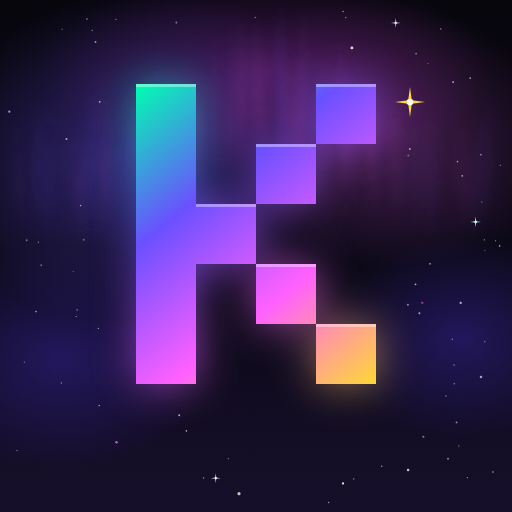
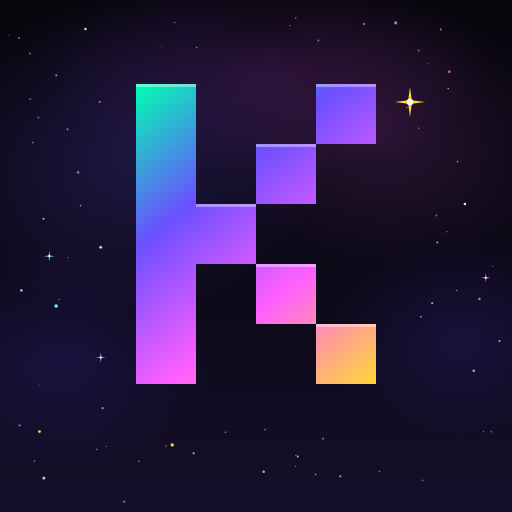
docs: the brand art is crisp: no glow round KLASH, no blurred streaks
Jae: "i don't like the blur effect on the banner. make it more neat."
The blurred copy of the word that made a halo round its letters is
gone, and so are the nebula's filaments, streaks blurred sideways
above the word. The nebula's clouds are at half their strength, so
the sky stays purple and pink without looking foggy. The letters
keep their fade and lit top edges, the ╱ fields and stars are as
they were, in the banner, social card, sign-off and avatar.

Changed region(s): [[0.0, 0.0312, 0.875, 0.8125], [0.8438, 0.5938, 0.9688, 0.7188], [0.9062, 0.3125, 0.9688, 0.375]]

diff --git a/docs/brand/og.html b/docs/brand/og.html
@@ -18,22 +18,19 @@ html,body{width:1280px;height:640px;overflow:hidden;background:#07060D}
 <defs>
 
 <linearGradient id="sky" x1="0" y1="0" x2="0" y2="1"><stop offset="0" stop-color="#07060D"/><stop offset=".62" stop-color="#0D0A1A"/><stop offset="1" stop-color="#160F2B"/></linearGradient>
-<radialGradient id="neb1"><stop offset="0" stop-color="#6B50FF" stop-opacity=".40"/><stop offset="1" stop-color="#6B50FF" stop-opacity="0"/></radialGradient>
-<radialGradient id="neb2"><stop offset="0" stop-color="#FF60FF" stop-opacity=".26"/><stop offset="1" stop-color="#FF60FF" stop-opacity="0"/></radialGradient>
-<radialGradient id="neb3"><stop offset="0" stop-color="#C337E0" stop-opacity=".26"/><stop offset="1" stop-color="#C337E0" stop-opacity="0"/></radialGradient>
-<radialGradient id="neb4"><stop offset="0" stop-color="#4A30D9" stop-opacity=".34"/><stop offset="1" stop-color="#4A30D9" stop-opacity="0"/></radialGradient>
-<linearGradient id="ray1" x1="0" y1="0" x2="0" y2="1"><stop offset="0" stop-color="#6B50FF" stop-opacity="0"/><stop offset=".55" stop-color="#6B50FF" stop-opacity=".9"/><stop offset="1" stop-color="#6B50FF" stop-opacity="0"/></linearGradient>
-<linearGradient id="ray2" x1="0" y1="0" x2="0" y2="1"><stop offset="0" stop-color="#FF60FF" stop-opacity="0"/><stop offset=".55" stop-color="#FF60FF" stop-opacity=".9"/><stop offset="1" stop-color="#FF60FF" stop-opacity="0"/></linearGradient>
-<filter id="hblur" x="-20%" y="-5%" width="140%" height="110%"><feGaussianBlur stdDeviation="5 0"/></filter>
+<radialGradient id="neb1"><stop offset="0" stop-color="#6B50FF" stop-opacity=".20"/><stop offset="1" stop-color="#6B50FF" stop-opacity="0"/></radialGradient>
+<radialGradient id="neb2"><stop offset="0" stop-color="#FF60FF" stop-opacity=".13"/><stop offset="1" stop-color="#FF60FF" stop-opacity="0"/></radialGradient>
+<radialGradient id="neb3"><stop offset="0" stop-color="#C337E0" stop-opacity=".13"/><stop offset="1" stop-color="#C337E0" stop-opacity="0"/></radialGradient>
+<radialGradient id="neb4"><stop offset="0" stop-color="#4A30D9" stop-opacity=".17"/><stop offset="1" stop-color="#4A30D9" stop-opacity="0"/></radialGradient>
+
 <linearGradient id="word" gradientUnits="userSpaceOnUse" x1="248" y1="92" x2="1032" y2="232"><stop offset="0" stop-color="#00FFB2"/><stop offset="0.333" stop-color="#6B50FF"/><stop offset="0.667" stop-color="#FF60FF"/><stop offset="1" stop-color="#FED835"/></linearGradient>
 <linearGradient id="field" gradientUnits="userSpaceOnUse" x1="0" y1="0" x2="1280" y2="0"><stop offset="0" stop-color="#6B50FF" stop-opacity="0"/><stop offset=".2" stop-color="#6B50FF" stop-opacity=".55"/><stop offset=".8" stop-color="#FF60FF" stop-opacity=".55"/><stop offset="1" stop-color="#FF60FF" stop-opacity="0"/></linearGradient>
-<filter id="glow" x="-20%" y="-60%" width="140%" height="220%"><feGaussianBlur stdDeviation="16"/></filter>
 </defs>
-<rect width="1280" height="640" fill="url(#sky)"/><g class="aur"><ellipse cx="333" cy="192" rx="512" ry="205" fill="url(#neb1)" transform="rotate(-12 333 192)"/><ellipse cx="947" cy="166" rx="461" ry="166" fill="url(#neb2)" transform="rotate(9 947 166)"/><ellipse cx="666" cy="90" rx="563" ry="128" fill="url(#neb3)"/><ellipse cx="154" cy="448" rx="384" ry="141" fill="url(#neb4)"/><ellipse cx="1152" cy="422" rx="333" ry="128" fill="url(#neb4)"/></g><g filter="url(#hblur)"><rect x="39.9" y="84.1" width="9.2" height="199.0" fill="url(#ray1)" opacity="0.054"/><rect x="60.7" y="175.2" width="8.5" height="112.3" fill="url(#ray1)" opacity="0.042"/><rect x="77.6" y="169.0" width="7.8" height="122.6" fill="url(#ray2)" opacity="0.044"/><rect x="90.9" y="184.7" width="10.4" height="110.4" fill="url(#ray2)" opacity="0.034"/><rect x="110.3" y="169.8" width="8.3" height="128.2" fill="url(#ray2)" opacity="0.063"/><rect x="119.9" y="191.4" width="5.5" height="109.0" fill="url(#ray2)" opacity="0.069"/><rect x="147.3" y="87.4" width="7.8" height="214.9" fill="url(#ray1)" opacity="0.041"/><rect x="160.9" y="169.7" width="10.8" height="133.7" fill="url(#ray1)" opacity="0.077"/><rect x="180.6" y="158.8" width="5.0" height="145.1" fill="url(#ray2)" opacity="0.047"/><rect x="187.9" y="158.4" width="8.7" height="145.4" fill="url(#ray2)" opacity="0.063"/><rect x="208.3" y="156.6" width="6.2" height="146.5" fill="url(#ray1)" opacity="0.077"/><rect x="227.2" y="107.2" width="4.2" height="194.5" fill="url(#ray1)" opacity="0.033"/><rect x="247.7" y="88.1" width="6.6" height="211.5" fill="url(#ray1)" opacity="0.032"/><rect x="262.8" y="187.1" width="10.7" height="109.9" fill="url(#ray2)" opacity="0.035"/><rect x="275.4" y="93.1" width="6.4" height="200.7" fill="url(#ray1)" opacity="0.093"/><rect x="294.5" y="117.5" width="9.2" height="172.6" fill="url(#ray2)" opacity="0.085"/><rect x="317.0" y="72.6" width="4.6" height="213.3" fill="url(#ray1)" opacity="0.037"/><rect x="328.7" y="98.3" width="10.5" height="183.1" fill="url(#ray2)" opacity="0.099"/><rect x="348.3" y="129.7" width="4.5" height="146.8" fill="url(#ray2)" opacity="0.059"/><rect x="360.8" y="78.7" width="4.3" height="192.6" fill="url(#ray2)" opacity="0.110"/><rect x="388.0" y="92.2" width="8.2" height="173.7" fill="url(#ray2)" opacity="0.068"/><rect x="403.3" y="96.2" width="10.4" height="164.2" fill="url(#ray2)" opacity="0.071"/><rect x="410.9" y="86.0" width="9.1" height="168.8" fill="url(#ray2)" opacity="0.105"/><rect x="439.1" y="63.7" width="7.0" height="185.5" fill="url(#ray2)" opacity="0.103"/><rect x="446.7" y="32.2" width="11.0" height="211.5" fill="url(#ray1)" opacity="0.065"/><rect x="472.3" y="10.9" width="9.1" height="227.5" fill="url(#ray1)" opacity="0.080"/><rect x="485.1" y="89.1" width="6.6" height="144.2" fill="url(#ray2)" opacity="0.077"/><rect x="508.4" y="3.0" width="6.4" height="225.5" fill="url(#ray1)" opacity="0.098"/><rect x="514.7" y="82.2" width="6.5" height="141.9" fill="url(#ray1)" opacity="0.113"/><rect x="540.3" y="17.2" width="9.3" height="203.0" fill="url(#ray1)" opacity="0.108"/><rect x="552.4" y="22.2" width="9.4" height="194.5" fill="url(#ray1)" opacity="0.072"/><rect x="573.5" y="69.2" width="8.1" height="144.5" fill="url(#ray1)" opacity="0.135"/><rect x="582.6" y="36.1" width="7.2" height="175.3" fill="url(#ray1)" opacity="0.071"/><rect x="609.4" y="22.1" width="8.5" height="187.5" fill="url(#ray2)" opacity="0.125"/><rect x="625.7" y="-1.0" width="10.1" height="209.5" fill="url(#ray1)" opacity="0.084"/><rect x="642.3" y="-19.5" width="7.7" height="227.5" fill="url(#ray1)" opacity="0.146"/><rect x="653.2" y="-2.3" width="8.8" height="210.5" fill="url(#ray1)" opacity="0.141"/><rect x="677.0" y="11.4" width="8.1" height="197.6" fill="url(#ray1)" opacity="0.065"/><rect x="693.6" y="50.5" width="8.5" height="160.0" fill="url(#ray1)" opacity="0.107"/><rect x="711.4" y="100.4" width="8.6" height="112.2" fill="url(#ray1)" opacity="0.062"/><rect x="722.6" y="23.0" width="7.3" height="192.2" fill="url(#ray2)" opacity="0.104"/><rect x="739.8" y="103.0" width="5.3" height="115.4" fill="url(#ray2)" opacity="0.057"/><rect x="756.6" y="109.0" width="8.3" height="113.1" fill="url(#ray2)" opacity="0.085"/><rect x="778.6" y="88.6" width="6.8" height="137.7" fill="url(#ray2)" opacity="0.122"/><rect x="792.0" y="72.3" width="6.6" height="158.7" fill="url(#ray1)" opacity="0.052"/><rect x="806.3" y="52.5" width="6.4" height="183.4" fill="url(#ray1)" opacity="0.050"/><rect x="830.0" y="15.8" width="9.7" height="225.3" fill="url(#ray1)" opacity="0.108"/><rect x="848.0" y="92.8" width="7.9" height="153.7" fill="url(#ray1)" opacity="0.051"/><rect x="868.9" y="25.6" width="10.3" height="226.5" fill="url(#ray2)" opacity="0.087"/><rect x="874.7" y="135.7" width="5.0" height="121.9" fill="url(#ray1)" opacity="0.082"/><rect x="899.4" y="46.1" width="5.6" height="217.2" fill="url(#ray1)" opacity="0.066"/><rect x="912.5" y="41.7" width="10.4" height="227.1" fill="url(#ray1)" opacity="0.065"/><rect x="933.4" y="133.6" width="6.9" height="140.4" fill="url(#ray1)" opacity="0.106"/><rect x="947.2" y="50.6" width="7.3" height="228.5" fill="url(#ray2)" opacity="0.070"/><rect x="962.0" y="99.4" width="9.5" height="184.4" fill="url(#ray2)" opacity="0.065"/><rect x="987.7" y="177.8" width="10.5" height="110.4" fill="url(#ray2)" opacity="0.069"/><rect x="1004.3" y="153.4" width="10.9" height="138.7" fill="url(#ray2)" opacity="0.050"/><rect x="1015.7" y="112.8" width="8.2" height="182.7" fill="url(#ray1)" opacity="0.062"/><rect x="1038.3" y="175.3" width="7.7" height="123.2" fill="url(#ray2)" opacity="0.078"/><rect x="1050.6" y="155.9" width="6.5" height="144.9" fill="url(#ray1)" opacity="0.062"/><rect x="1072.7" y="121.8" width="7.2" height="180.6" fill="url(#ray2)" opacity="0.031"/><rect x="1091.9" y="86.8" width="9.4" height="216.8" fill="url(#ray2)" opacity="0.059"/><rect x="1103.2" y="125.2" width="7.4" height="178.8" fill="url(#ray1)" opacity="0.067"/><rect x="1126.2" y="148.1" width="5.4" height="155.7" fill="url(#ray1)" opacity="0.048"/><rect x="1136.0" y="93.2" width="8.9" height="209.7" fill="url(#ray1)" opacity="0.029"/><rect x="1154.9" y="157.8" width="5.0" height="143.6" fill="url(#ray1)" opacity="0.064"/><rect x="1172.6" y="123.7" width="5.1" height="175.6" fill="url(#ray2)" opacity="0.048"/><rect x="1191.1" y="89.0" width="9.7" height="207.5" fill="url(#ray2)" opacity="0.027"/><rect x="1210.7" y="103.8" width="10.9" height="189.5" fill="url(#ray1)" opacity="0.024"/><rect x="1230.4" y="95.5" width="5.5" height="194.1" fill="url(#ray1)" opacity="0.024"/></g><circle cx="824.2" cy="602.2" r="0.62" fill="#FFFAF1" opacity="0.47"/><circle cx="1168.3" cy="101.4" r="0.76" fill="#FFFAF1" opacity="0.41"/><circle cx="794.7" cy="35.2" r="0.74" fill="#FFFAF1" opacity="0.38"/><g transform="translate(80.8 367.0)"><path d="M0 -4.9L0.59 -0.59L4.9 0L0.59 0.59L0 4.9L-0.59 0.59L-4.9 0L-0.59 -0.59z" fill="#FFFAF1"/><circle r="1.08" fill="#FFFAF1"/></g><circle cx="123.6" cy="435.7" r="0.73" fill="#FFFAF1" opacity="0.61"/><circle cx="1164.3" cy="94.3" r="0.83" fill="#FFFAF1" opacity="0.62"/><circle cx="374.9" cy="595.8" r="0.66" fill="#FFFAF1" opacity="0.38"/><circle cx="305.8" cy="527.5" r="1.04" fill="#FFFAF1" opacity="0.67"/><circle cx="1099.5" cy="290.9" r="0.62" fill="#FFFAF1" opacity="0.36"/><circle cx="53.4" cy="546.8" r="0.78" fill="#FFFAF1" opacity="0.51"/><circle cx="592.8" cy="609.1" r="0.82" fill="#FFFAF1" opacity="0.57"/><circle cx="494.2" cy="537.3" r="1.66" fill="#68FFD6" opacity="1.00"/><circle cx="955.5" cy="60.3" r="1.29" fill="#FFFAF1" opacity="0.65"/><circle cx="1084.4" cy="330.9" r="0.84" fill="#FFFAF1" opacity="0.65"/><circle cx="49.9" cy="134.3" r="0.99" fill="#FFFAF1" opacity="0.54"/><circle cx="969.1" cy="8.3" r="0.99" fill="#FFFAF1" opacity="0.60"/><circle cx="134.1" cy="104.5" r="0.74" fill="#FFFAF1" opacity="0.50"/><circle cx="1120.8" cy="102.9" r="0.69" fill="#FFFAF1" opacity="0.41"/><circle cx="617.3" cy="28.0" r="1.22" fill="#FFFAF1" opacity="0.84"/><circle cx="1203.0" cy="81.6" r="0.70" fill="#FFFAF1" opacity="0.62"/><circle cx="262.1" cy="23.6" r="0.59" fill="#FFFAF1" opacity="0.51"/><circle cx="1238.6" cy="235.3" r="0.78" fill="#FFFAF1" opacity="0.46"/><circle cx="857.6" cy="594.9" r="0.77" fill="#FFFAF1" opacity="0.74"/><circle cx="15.9" cy="46.0" r="1.25" fill="#FFFAF1" opacity="0.61"/><circle cx="1064.1" cy="530.5" r="1.02" fill="#FFFAF1" opacity="0.64"/><circle cx="307.6" cy="509.2" r="0.79" fill="#FFFAF1" opacity="0.62"/><circle cx="995.9" cy="37.9" r="1.27" fill="#FF60FF" opacity="0.62"/><circle cx="55.5" cy="614.3" r="0.80" fill="#FFFAF1" opacity="0.51"/><circle cx="679.6" cy="60.6" r="0.60" fill="#FFFAF1" opacity="0.57"/><circle cx="1172.5" cy="381.3" r="1.13" fill="#FFFAF1" opacity="0.75"/><circle cx="175.8" cy="15.7" r="1.41" fill="#FFFAF1" opacity="0.79"/><circle cx="183.3" cy="309.5" r="1.16" fill="#C9C1FF" opacity="0.71"/><circle cx="172.1" cy="59.2" r="0.59" fill="#FFFAF1" opacity="0.52"/><circle cx="85.7" cy="445.2" r="0.65" fill="#FFFAF1" opacity="0.46"/><circle cx="1140.7" cy="416.2" r="1.34" fill="#C9C1FF" opacity="0.65"/><circle cx="31.7" cy="37.5" r="0.60" fill="#FFFAF1" opacity="0.67"/><circle cx="51.0" cy="346.5" r="1.02" fill="#FFFAF1" opacity="0.62"/><g transform="translate(172.5 230.9)"><path d="M0 -5.0L0.60 -0.60L5.0 0L0.60 0.60L0 5.0L-0.60 0.60L-5.0 0L-0.60 -0.60z" fill="#FF60FF"/><circle r="1.10" fill="#FFFAF1"/></g><circle cx="214.2" cy="621.4" r="0.85" fill="#FFFAF1" opacity="0.60"/><circle cx="190.1" cy="485.2" r="0.76" fill="#FFFAF1" opacity="0.48"/><circle cx="69.2" cy="424.8" r="0.79" fill="#FFFAF1" opacity="0.55"/><circle cx="10.0" cy="87.2" r="1.41" fill="#FFFAF1" opacity="0.94"/><circle cx="49.5" cy="368.0" r="0.99" fill="#FFFAF1" opacity="0.51"/><g transform="translate(321.8 621.0)"><path d="M0 -4.8L0.58 -0.58L4.8 0L0.58 0.58L0 4.8L-0.58 0.58L-4.8 0L-0.58 -0.58z" fill="#FF60FF"/><circle r="1.06" fill="#FFFAF1"/></g><circle cx="126.5" cy="255.7" r="1.17" fill="#FFFAF1" opacity="0.88"/><circle cx="123.2" cy="132.2" r="0.60" fill="#FFFAF1" opacity="0.59"/><circle cx="792.9" cy="515.5" r="0.89" fill="#FFFAF1" opacity="0.59"/><circle cx="740.3" cy="591.3" r="0.58" fill="#FFFAF1" opacity="0.41"/><circle cx="534.7" cy="606.0" r="0.93" fill="#FFFAF1" opacity="0.43"/><circle cx="370.0" cy="25.1" r="1.37" fill="#FF60FF" opacity="0.74"/><circle cx="1232.3" cy="17.0" r="1.14" fill="#FFFAF1" opacity="0.86"/><circle cx="854.8" cy="605.1" r="1.41" fill="#FF60FF" opacity="0.81"/><circle cx="124.2" cy="83.5" r="0.94" fill="#FFFAF1" opacity="0.52"/><circle cx="1232.9" cy="426.8" r="0.93" fill="#FFFAF1" opacity="0.56"/><circle cx="1073.7" cy="562.9" r="1.04" fill="#FFFAF1" opacity="0.45"/><circle cx="134.5" cy="191.4" r="1.48" fill="#FFFAF1" opacity="0.91"/><g transform="translate(87.2 361.1)"><path d="M0 -4.9L0.59 -0.59L4.9 0L0.59 0.59L0 4.9L-0.59 0.59L-4.9 0L-0.59 -0.59z" fill="#FF60FF"/><circle r="1.08" fill="#FFFAF1"/></g><circle cx="536.7" cy="60.7" r="1.20" fill="#C9C1FF" opacity="0.61"/><circle cx="154.1" cy="359.0" r="0.64" fill="#FFFAF1" opacity="0.43"/><circle cx="85.6" cy="310.5" r="1.57" fill="#C9C1FF" opacity="0.67"/><circle cx="1148.0" cy="565.5" r="0.95" fill="#FFFAF1" opacity="0.69"/><circle cx="10.0" cy="427.5" r="0.72" fill="#FFFAF1" opacity="0.50"/><circle cx="1137.6" cy="350.6" r="0.98" fill="#FFFAF1" opacity="0.70"/><circle cx="469.8" cy="516.1" r="0.71" fill="#FFFAF1" opacity="0.42"/><circle cx="1134.1" cy="624.4" r="1.15" fill="#FF60FF" opacity="0.76"/><circle cx="15.1" cy="619.7" r="1.48" fill="#FED835" opacity="1.00"/><circle cx="634.3" cy="608.7" r="1.44" fill="#FFFAF1" opacity="1.00"/><g transform="translate(28.0 513.2)"><path d="M0 -5.9L0.71 -0.71L5.9 0L0.71 0.71L0 5.9L-0.71 0.71L-5.9 0L-0.71 -0.71z" fill="#68FFD6"/><circle r="1.30" fill="#FFFAF1"/></g><circle cx="1168.8" cy="246.4" r="0.80" fill="#FFFAF1" opacity="0.63"/><circle cx="1079.9" cy="332.0" r="0.76" fill="#FFFAF1" opacity="0.45"/><circle cx="850.1" cy="53.8" r="0.60" fill="#FFFAF1" opacity="0.54"/><circle cx="1252.6" cy="345.8" r="1.02" fill="#FFFAF1" opacity="0.39"/><circle cx="457.7" cy="513.9" r="0.93" fill="#FFFAF1" opacity="0.49"/><circle cx="28.7" cy="164.5" r="0.74" fill="#FFFAF1" opacity="0.56"/><g transform="translate(75.2 144.4)"><path d="M0 -5.3L0.64 -0.64L5.3 0L0.64 0.64L0 5.3L-0.64 0.64L-5.3 0L-0.64 -0.64z" fill="#C9C1FF"/><circle r="1.17" fill="#FFFAF1"/></g><circle cx="664.3" cy="604.6" r="0.97" fill="#FFFAF1" opacity="0.54"/><circle cx="36.4" cy="107.8" r="1.30" fill="#FF60FF" opacity="0.93"/><circle cx="1035.0" cy="522.0" r="1.00" fill="#FFFAF1" opacity="0.36"/><circle cx="249.1" cy="528.5" r="0.73" fill="#FFFAF1" opacity="0.51"/><circle cx="467.4" cy="9.5" r="0.93" fill="#FFFAF1" opacity="0.65"/><circle cx="105.2" cy="437.0" r="0.75" fill="#FFFAF1" opacity="0.41"/><circle cx="105.7" cy="235.7" r="0.56" fill="#FFFAF1" opacity="0.67"/><circle cx="116.2" cy="90.0" r="0.72" fill="#FFFAF1" opacity="0.44"/><circle cx="379.3" cy="567.3" r="1.33" fill="#C9C1FF" opacity="0.64"/><circle cx="743.3" cy="610.7" r="0.83" fill="#FFFAF1" opacity="0.46"/><circle cx="176.9" cy="308.2" r="0.55" fill="#FFFAF1" opacity="0.66"/><circle cx="779.7" cy="502.8" r="0.80" fill="#FFFAF1" opacity="0.37"/><circle cx="35.0" cy="193.8" r="0.88" fill="#FFFAF1" opacity="0.72"/><g transform="translate(909.5 592.9)"><path d="M0 -6.4L0.77 -0.77L6.4 0L0.77 0.77L0 6.4L-0.77 0.77L-6.4 0L-0.77 -0.77z" fill="#FFFAF1"/><circle r="1.40" fill="#FFFAF1"/></g><circle cx="1078.3" cy="376.7" r="0.87" fill="#FFFAF1" opacity="0.37"/><circle cx="132.5" cy="328.4" r="1.22" fill="#C9C1FF" opacity="0.65"/><circle cx="581.8" cy="45.3" r="0.72" fill="#FFFAF1" opacity="0.41"/><circle cx="1231.0" cy="172.3" r="0.94" fill="#FFFAF1" opacity="0.65"/><circle cx="339.3" cy="525.4" r="0.74" fill="#FFFAF1" opacity="0.60"/><circle cx="1115.9" cy="281.7" r="1.11" fill="#FFFAF1" opacity="0.80"/><circle cx="1147.7" cy="229.6" r="0.78" fill="#FFFAF1" opacity="0.63"/><circle cx="829.1" cy="24.2" r="0.76" fill="#FFFAF1" opacity="0.56"/><circle cx="755.9" cy="34.5" r="0.70" fill="#FFFAF1" opacity="0.56"/><circle cx="692.0" cy="531.6" r="1.81" fill="#FFFAF1" opacity="1.00"/><circle cx="160.3" cy="478.8" r="0.70" fill="#FFFAF1" opacity="0.35"/><circle cx="1148.1" cy="298.5" r="0.66" fill="#FFFAF1" opacity="0.46"/><circle cx="1204.7" cy="136.1" r="0.73" fill="#FFFAF1" opacity="0.38"/><circle cx="183.5" cy="314.5" r="0.77" fill="#FFFAF1" opacity="0.58"/><circle cx="1160.9" cy="98.5" r="0.80" fill="#FFFAF1" opacity="0.56"/><circle cx="1145.8" cy="354.5" r="0.76" fill="#FFFAF1" opacity="0.66"/><circle cx="144.3" cy="169.7" r="0.99" fill="#FFFAF1" opacity="0.46"/><circle cx="1216.7" cy="80.7" r="1.20" fill="#FFFAF1" opacity="0.90"/><circle cx="134.2" cy="543.3" r="1.19" fill="#C9C1FF" opacity="0.85"/><circle cx="526.9" cy="550.7" r="0.70" fill="#FFFAF1" opacity="0.42"/><circle cx="1200.5" cy="501.3" r="1.30" fill="#FFFAF1" opacity="0.76"/><circle cx="98.6" cy="271.2" r="1.32" fill="#FF60FF" opacity="0.64"/><g transform="translate(654.6 590.3)"><path d="M0 -5.4L0.64 -0.64L5.4 0L0.64 0.64L0 5.4L-0.64 0.64L-5.4 0L-0.64 -0.64z" fill="#FED835"/><circle r="1.18" fill="#FFFAF1"/></g><g transform="translate(1045.6 32.4)"><path d="M0 -5.1L0.61 -0.61L5.1 0L0.61 0.61L0 5.1L-0.61 0.61L-5.1 0L-0.61 -0.61z" fill="#FFFAF1"/><circle r="1.12" fill="#FFFAF1"/></g><circle cx="809.2" cy="581.3" r="0.96" fill="#FFFAF1" opacity="0.56"/><circle cx="184.3" cy="41.4" r="1.28" fill="#C9C1FF" opacity="0.79"/><circle cx="132.3" cy="379.9" r="1.03" fill="#FFFAF1" opacity="0.66"/><circle cx="384.6" cy="560.3" r="0.90" fill="#FFFAF1" opacity="0.57"/><circle cx="38.0" cy="368.4" r="0.97" fill="#FFFAF1" opacity="0.70"/><circle cx="773.2" cy="44.1" r="0.81" fill="#FFFAF1" opacity="0.47"/><circle cx="1210.7" cy="28.5" r="0.63" fill="#FFFAF1" opacity="0.74"/><circle cx="590.6" cy="578.7" r="0.71" fill="#FFFAF1" opacity="0.63"/><circle cx="1005.4" cy="16.9" r="0.88" fill="#FFFAF1" opacity="0.57"/><circle cx="10.6" cy="614.1" r="1.10" fill="#FFFAF1" opacity="0.90"/><circle cx="309.1" cy="525.4" r="0.74" fill="#FFFAF1" opacity="0.61"/><circle cx="20.8" cy="417.7" r="0.92" fill="#FFFAF1" opacity="0.55"/><circle cx="85.8" cy="170.5" r="1.09" fill="#FFFAF1" opacity="0.76"/><circle cx="225.6" cy="562.8" r="1.28" fill="#C9C1FF" opacity="0.78"/><circle cx="39.3" cy="504.2" r="1.37" fill="#FF60FF" opacity="0.81"/><circle cx="913.0" cy="539.0" r="0.56" fill="#FFFAF1" opacity="0.70"/><circle cx="1258.8" cy="133.6" r="0.72" fill="#FFFAF1" opacity="0.39"/><circle cx="286.3" cy="10.1" r="0.70" fill="#FFFAF1" opacity="0.64"/><circle cx="1213.1" cy="566.2" r="0.66" fill="#FFFAF1" opacity="0.51"/><circle cx="41.3" cy="292.4" r="1.42" fill="#FF60FF" opacity="0.69"/><circle cx="124.4" cy="153.2" r="0.96" fill="#FFFAF1" opacity="0.68"/><circle cx="1145.3" cy="357.9" r="1.44" fill="#FF60FF" opacity="0.67"/><circle cx="127.7" cy="385.9" r="0.62" fill="#FFFAF1" opacity="0.47"/><circle cx="16.7" cy="100.9" r="0.60" fill="#FFFAF1" opacity="0.35"/><circle cx="703.2" cy="605.6" r="1.20" fill="#FFFAF1" opacity="0.77"/><circle cx="472.6" cy="624.6" r="1.22" fill="#C9C1FF" opacity="0.69"/><circle cx="730.4" cy="560.9" r="1.03" fill="#FFFAF1" opacity="0.51"/><circle cx="1244.3" cy="18.3" r="0.60" fill="#FFFAF1" opacity="0.56"/><circle cx="113.2" cy="416.7" r="0.59" fill="#FFFAF1" opacity="0.48"/><circle cx="980.6" cy="34.0" r="0.94" fill="#FFFAF1" opacity="0.72"/><circle cx="1133.4" cy="485.1" r="1.41" fill="#FFFAF1" opacity="0.61"/><circle cx="97.9" cy="428.8" r="0.70" fill="#FFFAF1" opacity="0.39"/>
+<rect width="1280" height="640" fill="url(#sky)"/><g class="aur"><ellipse cx="333" cy="192" rx="512" ry="205" fill="url(#neb1)" transform="rotate(-12 333 192)"/><ellipse cx="947" cy="166" rx="461" ry="166" fill="url(#neb2)" transform="rotate(9 947 166)"/><ellipse cx="666" cy="90" rx="563" ry="128" fill="url(#neb3)"/><ellipse cx="154" cy="448" rx="384" ry="141" fill="url(#neb4)"/><ellipse cx="1152" cy="422" rx="333" ry="128" fill="url(#neb4)"/></g><circle cx="1013.1" cy="596.1" r="1.55" fill="#FFFAF1" opacity="0.89"/><circle cx="73.5" cy="105.9" r="0.98" fill="#FFFAF1" opacity="0.50"/><circle cx="136.9" cy="163.6" r="1.24" fill="#FFFAF1" opacity="0.92"/><circle cx="10.2" cy="551.8" r="0.66" fill="#FFFAF1" opacity="0.74"/><circle cx="1110.7" cy="188.5" r="1.72" fill="#68FFD6" opacity="1.00"/><circle cx="237.6" cy="612.4" r="1.03" fill="#FFFAF1" opacity="0.50"/><circle cx="35.3" cy="266.9" r="1.16" fill="#C9C1FF" opacity="0.71"/><circle cx="770.3" cy="10.1" r="0.72" fill="#FFFAF1" opacity="0.47"/><circle cx="898.7" cy="43.6" r="1.41" fill="#FFFAF1" opacity="1.00"/><circle cx="1075.9" cy="19.3" r="1.22" fill="#FF60FF" opacity="0.89"/><circle cx="796.4" cy="603.5" r="0.67" fill="#FFFAF1" opacity="0.68"/><circle cx="1136.4" cy="164.6" r="0.84" fill="#FFFAF1" opacity="0.66"/><circle cx="555.3" cy="618.5" r="0.81" fill="#FFFAF1" opacity="0.50"/><circle cx="195.3" cy="180.0" r="0.60" fill="#FFFAF1" opacity="0.62"/><circle cx="395.0" cy="506.4" r="0.91" fill="#FFFAF1" opacity="0.47"/><circle cx="110.3" cy="382.8" r="1.02" fill="#FF60FF" opacity="0.81"/><circle cx="541.1" cy="42.8" r="1.02" fill="#C9C1FF" opacity="0.72"/><circle cx="269.7" cy="620.3" r="0.62" fill="#FFFAF1" opacity="0.71"/><circle cx="479.5" cy="44.7" r="0.62" fill="#FFFAF1" opacity="0.72"/><circle cx="668.1" cy="607.1" r="0.71" fill="#FFFAF1" opacity="0.46"/><circle cx="602.2" cy="570.8" r="0.96" fill="#FFFAF1" opacity="0.56"/><circle cx="234.8" cy="592.8" r="1.11" fill="#C9C1FF" opacity="0.70"/><circle cx="996.5" cy="549.2" r="0.94" fill="#FFFAF1" opacity="0.66"/><circle cx="1203.2" cy="413.4" r="0.56" fill="#FFFAF1" opacity="0.57"/><circle cx="593.2" cy="517.6" r="0.95" fill="#FFFAF1" opacity="0.49"/><circle cx="1073.4" cy="550.8" r="1.04" fill="#FFFAF1" opacity="0.73"/><circle cx="218.0" cy="530.1" r="1.29" fill="#FF60FF" opacity="0.63"/><circle cx="787.6" cy="592.2" r="1.02" fill="#FFFAF1" opacity="0.47"/><circle cx="707.3" cy="549.1" r="1.05" fill="#FFFAF1" opacity="0.43"/><circle cx="1254.9" cy="619.4" r="1.00" fill="#FFFAF1" opacity="0.39"/><circle cx="1231.5" cy="309.2" r="0.76" fill="#FFFAF1" opacity="0.49"/><circle cx="845.4" cy="52.9" r="0.91" fill="#FFFAF1" opacity="0.50"/><circle cx="451.1" cy="602.1" r="1.52" fill="#FF60FF" opacity="0.89"/><circle cx="480.6" cy="30.5" r="0.60" fill="#FFFAF1" opacity="0.57"/><circle cx="1219.3" cy="518.8" r="0.96" fill="#FFFAF1" opacity="0.61"/><circle cx="1217.9" cy="612.0" r="0.73" fill="#FFFAF1" opacity="0.71"/><circle cx="9.2" cy="75.3" r="0.86" fill="#FFFAF1" opacity="0.41"/><circle cx="803.6" cy="564.2" r="0.77" fill="#FFFAF1" opacity="0.44"/><circle cx="376.4" cy="614.8" r="1.03" fill="#FFFAF1" opacity="0.72"/><circle cx="1248.0" cy="317.7" r="0.71" fill="#FFFAF1" opacity="0.74"/><circle cx="1053.1" cy="16.2" r="0.69" fill="#FFFAF1" opacity="0.72"/><circle cx="1257.9" cy="190.9" r="0.79" fill="#FFFAF1" opacity="0.61"/><circle cx="157.4" cy="482.5" r="0.82" fill="#FFFAF1" opacity="0.48"/><circle cx="54.0" cy="165.5" r="1.01" fill="#FFFAF1" opacity="0.71"/><circle cx="697.6" cy="17.1" r="1.26" fill="#FF60FF" opacity="0.84"/><g transform="translate(1212.9 412.9)"><path d="M0 -4.8L0.58 -0.58L4.8 0L0.58 0.58L0 4.8L-0.58 0.58L-4.8 0L-0.58 -0.58z" fill="#C9C1FF"/><circle r="1.06" fill="#FFFAF1"/></g><circle cx="1084.8" cy="130.6" r="0.97" fill="#FFFAF1" opacity="0.38"/><circle cx="994.8" cy="576.3" r="0.79" fill="#FFFAF1" opacity="0.57"/><circle cx="202.1" cy="373.6" r="1.04" fill="#FFFAF1" opacity="0.69"/><g transform="translate(115.7 47.3)"><path d="M0 -5.1L0.61 -0.61L5.1 0L0.61 0.61L0 5.1L-0.61 0.61L-5.1 0L-0.61 -0.61z" fill="#C9C1FF"/><circle r="1.13" fill="#FFFAF1"/></g><circle cx="1245.1" cy="631.0" r="0.57" fill="#FFFAF1" opacity="0.69"/><circle cx="1211.6" cy="452.6" r="0.70" fill="#FFFAF1" opacity="0.72"/><circle cx="197.3" cy="389.0" r="0.63" fill="#FFFAF1" opacity="0.60"/><circle cx="63.1" cy="75.5" r="0.59" fill="#FFFAF1" opacity="0.37"/><circle cx="1118.4" cy="91.8" r="0.71" fill="#FFFAF1" opacity="0.59"/><circle cx="626.8" cy="593.6" r="0.58" fill="#FFFAF1" opacity="0.63"/><circle cx="199.0" cy="402.0" r="1.01" fill="#FFFAF1" opacity="0.57"/><circle cx="177.1" cy="154.3" r="0.92" fill="#FFFAF1" opacity="0.42"/><circle cx="115.7" cy="424.8" r="0.61" fill="#FFFAF1" opacity="0.59"/><circle cx="309.6" cy="555.2" r="0.71" fill="#FFFAF1" opacity="0.67"/><circle cx="45.2" cy="460.4" r="0.63" fill="#FFFAF1" opacity="0.73"/><circle cx="154.7" cy="615.0" r="0.96" fill="#FFFAF1" opacity="0.41"/><circle cx="1084.4" cy="330.9" r="0.84" fill="#FFFAF1" opacity="0.65"/><circle cx="49.9" cy="134.3" r="0.99" fill="#FFFAF1" opacity="0.54"/><circle cx="969.1" cy="8.3" r="0.99" fill="#FFFAF1" opacity="0.60"/><circle cx="134.1" cy="104.5" r="0.74" fill="#FFFAF1" opacity="0.50"/><circle cx="1120.8" cy="102.9" r="0.69" fill="#FFFAF1" opacity="0.41"/><circle cx="617.3" cy="28.0" r="1.22" fill="#FFFAF1" opacity="0.84"/><circle cx="1203.0" cy="81.6" r="0.70" fill="#FFFAF1" opacity="0.62"/><circle cx="262.1" cy="23.6" r="0.59" fill="#FFFAF1" opacity="0.51"/><circle cx="1238.6" cy="235.3" r="0.78" fill="#FFFAF1" opacity="0.46"/><circle cx="857.6" cy="594.9" r="0.77" fill="#FFFAF1" opacity="0.74"/><circle cx="15.9" cy="46.0" r="1.25" fill="#FFFAF1" opacity="0.61"/><circle cx="1064.1" cy="530.5" r="1.02" fill="#FFFAF1" opacity="0.64"/><circle cx="307.6" cy="509.2" r="0.79" fill="#FFFAF1" opacity="0.62"/><circle cx="995.9" cy="37.9" r="1.27" fill="#FF60FF" opacity="0.62"/><circle cx="55.5" cy="614.3" r="0.80" fill="#FFFAF1" opacity="0.51"/><circle cx="679.6" cy="60.6" r="0.60" fill="#FFFAF1" opacity="0.57"/><circle cx="1172.5" cy="381.3" r="1.13" fill="#FFFAF1" opacity="0.75"/><circle cx="175.8" cy="15.7" r="1.41" fill="#FFFAF1" opacity="0.79"/><circle cx="183.3" cy="309.5" r="1.16" fill="#C9C1FF" opacity="0.71"/><circle cx="172.1" cy="59.2" r="0.59" fill="#FFFAF1" opacity="0.52"/><circle cx="85.7" cy="445.2" r="0.65" fill="#FFFAF1" opacity="0.46"/><circle cx="1140.7" cy="416.2" r="1.34" fill="#C9C1FF" opacity="0.65"/><circle cx="31.7" cy="37.5" r="0.60" fill="#FFFAF1" opacity="0.67"/><circle cx="51.0" cy="346.5" r="1.02" fill="#FFFAF1" opacity="0.62"/><g transform="translate(172.5 230.9)"><path d="M0 -5.0L0.60 -0.60L5.0 0L0.60 0.60L0 5.0L-0.60 0.60L-5.0 0L-0.60 -0.60z" fill="#FF60FF"/><circle r="1.10" fill="#FFFAF1"/></g><circle cx="214.2" cy="621.4" r="0.85" fill="#FFFAF1" opacity="0.60"/><circle cx="190.1" cy="485.2" r="0.76" fill="#FFFAF1" opacity="0.48"/><circle cx="69.2" cy="424.8" r="0.79" fill="#FFFAF1" opacity="0.55"/><circle cx="10.0" cy="87.2" r="1.41" fill="#FFFAF1" opacity="0.94"/><circle cx="49.5" cy="368.0" r="0.99" fill="#FFFAF1" opacity="0.51"/><g transform="translate(321.8 621.0)"><path d="M0 -4.8L0.58 -0.58L4.8 0L0.58 0.58L0 4.8L-0.58 0.58L-4.8 0L-0.58 -0.58z" fill="#FF60FF"/><circle r="1.06" fill="#FFFAF1"/></g><circle cx="126.5" cy="255.7" r="1.17" fill="#FFFAF1" opacity="0.88"/><circle cx="123.2" cy="132.2" r="0.60" fill="#FFFAF1" opacity="0.59"/><circle cx="792.9" cy="515.5" r="0.89" fill="#FFFAF1" opacity="0.59"/><circle cx="740.3" cy="591.3" r="0.58" fill="#FFFAF1" opacity="0.41"/><circle cx="534.7" cy="606.0" r="0.93" fill="#FFFAF1" opacity="0.43"/><circle cx="370.0" cy="25.1" r="1.37" fill="#FF60FF" opacity="0.74"/><circle cx="1232.3" cy="17.0" r="1.14" fill="#FFFAF1" opacity="0.86"/><circle cx="854.8" cy="605.1" r="1.41" fill="#FF60FF" opacity="0.81"/><circle cx="124.2" cy="83.5" r="0.94" fill="#FFFAF1" opacity="0.52"/><circle cx="1232.9" cy="426.8" r="0.93" fill="#FFFAF1" opacity="0.56"/><circle cx="1073.7" cy="562.9" r="1.04" fill="#FFFAF1" opacity="0.45"/><circle cx="134.5" cy="191.4" r="1.48" fill="#FFFAF1" opacity="0.91"/><g transform="translate(87.2 361.1)"><path d="M0 -4.9L0.59 -0.59L4.9 0L0.59 0.59L0 4.9L-0.59 0.59L-4.9 0L-0.59 -0.59z" fill="#FF60FF"/><circle r="1.08" fill="#FFFAF1"/></g><circle cx="536.7" cy="60.7" r="1.20" fill="#C9C1FF" opacity="0.61"/><circle cx="154.1" cy="359.0" r="0.64" fill="#FFFAF1" opacity="0.43"/><g transform="translate(85.6 310.5)"><path d="M0 -5.0L0.60 -0.60L5.0 0L0.60 0.60L0 5.0L-0.60 0.60L-5.0 0L-0.60 -0.60z" fill="#C9C1FF"/><circle r="1.11" fill="#FFFAF1"/></g><circle cx="1148.0" cy="565.5" r="0.95" fill="#FFFAF1" opacity="0.69"/><circle cx="10.0" cy="427.5" r="0.72" fill="#FFFAF1" opacity="0.50"/><circle cx="1137.6" cy="350.6" r="0.98" fill="#FFFAF1" opacity="0.70"/><circle cx="469.8" cy="516.1" r="0.71" fill="#FFFAF1" opacity="0.42"/><circle cx="1134.1" cy="624.4" r="1.15" fill="#FF60FF" opacity="0.76"/><circle cx="15.1" cy="619.7" r="1.48" fill="#FED835" opacity="1.00"/><circle cx="634.3" cy="608.7" r="1.44" fill="#FFFAF1" opacity="1.00"/><g transform="translate(28.0 513.2)"><path d="M0 -5.9L0.71 -0.71L5.9 0L0.71 0.71L0 5.9L-0.71 0.71L-5.9 0L-0.71 -0.71z" fill="#68FFD6"/><circle r="1.30" fill="#FFFAF1"/></g><circle cx="1168.8" cy="246.4" r="0.80" fill="#FFFAF1" opacity="0.63"/><circle cx="1079.9" cy="332.0" r="0.76" fill="#FFFAF1" opacity="0.45"/><circle cx="850.1" cy="53.8" r="0.60" fill="#FFFAF1" opacity="0.54"/><circle cx="1252.6" cy="345.8" r="1.02" fill="#FFFAF1" opacity="0.39"/><circle cx="457.7" cy="513.9" r="0.93" fill="#FFFAF1" opacity="0.49"/><circle cx="28.7" cy="164.5" r="0.74" fill="#FFFAF1" opacity="0.56"/><circle cx="75.2" cy="144.4" r="1.67" fill="#C9C1FF" opacity="1.00"/><circle cx="664.3" cy="604.6" r="0.97" fill="#FFFAF1" opacity="0.54"/><circle cx="36.4" cy="107.8" r="1.30" fill="#FF60FF" opacity="0.93"/><circle cx="1035.0" cy="522.0" r="1.00" fill="#FFFAF1" opacity="0.36"/><circle cx="249.1" cy="528.5" r="0.73" fill="#FFFAF1" opacity="0.51"/><circle cx="467.4" cy="9.5" r="0.93" fill="#FFFAF1" opacity="0.65"/><circle cx="105.2" cy="437.0" r="0.75" fill="#FFFAF1" opacity="0.41"/><circle cx="105.7" cy="235.7" r="0.56" fill="#FFFAF1" opacity="0.67"/><circle cx="116.2" cy="90.0" r="0.72" fill="#FFFAF1" opacity="0.44"/><circle cx="379.3" cy="567.3" r="1.33" fill="#C9C1FF" opacity="0.64"/><circle cx="743.3" cy="610.7" r="0.83" fill="#FFFAF1" opacity="0.46"/><circle cx="176.9" cy="308.2" r="0.55" fill="#FFFAF1" opacity="0.66"/><circle cx="779.7" cy="502.8" r="0.80" fill="#FFFAF1" opacity="0.37"/><circle cx="35.0" cy="193.8" r="0.88" fill="#FFFAF1" opacity="0.72"/><circle cx="909.5" cy="592.9" r="1.99" fill="#FFFAF1" opacity="1.00"/><circle cx="1078.3" cy="376.7" r="0.87" fill="#FFFAF1" opacity="0.37"/><circle cx="132.5" cy="328.4" r="1.22" fill="#C9C1FF" opacity="0.65"/><circle cx="581.8" cy="45.3" r="0.72" fill="#FFFAF1" opacity="0.41"/><circle cx="1231.0" cy="172.3" r="0.94" fill="#FFFAF1" opacity="0.65"/><circle cx="339.3" cy="525.4" r="0.74" fill="#FFFAF1" opacity="0.60"/><circle cx="1115.9" cy="281.7" r="1.11" fill="#FFFAF1" opacity="0.80"/><circle cx="1147.7" cy="229.6" r="0.78" fill="#FFFAF1" opacity="0.63"/>
 <path d="M-4 148L24 92M24 148L52 92M52 148L80 92M80 148L108 92M108 148L136 92M136 148L164 92M164 148L192 92M192 148L220 92M-4 204L24 148M24 204L52 148M52 204L80 148M80 204L108 148M108 204L136 148M136 204L164 148M164 204L192 148M192 204L220 148M-4 260L24 204M24 260L52 204M52 260L80 204M80 260L108 204M108 260L136 204M136 260L164 204M164 260L192 204M192 260L220 204M-4 316L24 260M24 316L52 260M52 316L80 260M80 316L108 260M108 316L136 260M136 316L164 260M164 316L192 260M192 316L220 260M1060 148L1088 92M1088 148L1116 92M1116 148L1144 92M1144 148L1172 92M1172 148L1200 92M1200 148L1228 92M1228 148L1256 92M1256 148L1284 92M1060 204L1088 148M1088 204L1116 148M1116 204L1144 148M1144 204L1172 148M1172 204L1200 148M1200 204L1228 148M1228 204L1256 148M1256 204L1284 148M1060 260L1088 204M1088 260L1116 204M1116 260L1144 204M1144 260L1172 204M1172 260L1200 204M1200 260L1228 204M1228 260L1256 204M1256 260L1284 204M1060 316L1088 260M1088 316L1116 260M1116 316L1144 260M1144 316L1172 260M1172 316L1200 260M1200 316L1228 260M1228 316L1256 260M1256 316L1284 260" stroke="url(#field)" stroke-width="2.2" fill="none"/>
 <text x="248" y="297" font-family="JetBrains Mono,SFMono-Regular,Menlo,Consolas,'Liberation Mono','DejaVu Sans Mono',monospace" font-weight="500" font-size="24" fill="#FED835">klash.pro</text>
 <text x="1032" y="297" text-anchor="end" font-family="JetBrains Mono,SFMono-Regular,Menlo,Consolas,'Liberation Mono','DejaVu Sans Mono',monospace" font-size="24" fill="#858392">github.com/klash-pro/klash</text>
-<path d="M248 92h28v28h-28zM332 92h28v28h-28zM388 92h28v28h-28zM584 92h84v28h-84zM752 92h112v28h-112zM892 92h28v28h-28zM1004 92h28v28h-28zM248 120h28v28h-28zM304 120h28v28h-28zM388 120h28v28h-28zM556 120h28v28h-28zM668 120h28v28h-28zM724 120h28v28h-28zM892 120h28v28h-28zM1004 120h28v28h-28zM248 148h56v28h-56zM388 148h28v28h-28zM556 148h140v28h-140zM724 148h140v28h-140zM892 148h140v28h-140zM248 176h28v28h-28zM304 176h28v28h-28zM388 176h28v28h-28zM556 176h28v28h-28zM668 176h28v28h-28zM836 176h28v28h-28zM892 176h28v28h-28zM1004 176h28v28h-28zM248 204h28v28h-28zM332 204h28v28h-28zM388 204h140v28h-140zM556 204h28v28h-28zM668 204h28v28h-28zM724 204h112v28h-112zM892 204h28v28h-28zM1004 204h28v28h-28z" fill="url(#word)" filter="url(#glow)" opacity=".6"/><path d="M248 92h28v28h-28zM332 92h28v28h-28zM388 92h28v28h-28zM584 92h84v28h-84zM752 92h112v28h-112zM892 92h28v28h-28zM1004 92h28v28h-28zM248 120h28v28h-28zM304 120h28v28h-28zM388 120h28v28h-28zM556 120h28v28h-28zM668 120h28v28h-28zM724 120h28v28h-28zM892 120h28v28h-28zM1004 120h28v28h-28zM248 148h56v28h-56zM388 148h28v28h-28zM556 148h140v28h-140zM724 148h140v28h-140zM892 148h140v28h-140zM248 176h28v28h-28zM304 176h28v28h-28zM388 176h28v28h-28zM556 176h28v28h-28zM668 176h28v28h-28zM836 176h28v28h-28zM892 176h28v28h-28zM1004 176h28v28h-28zM248 204h28v28h-28zM332 204h28v28h-28zM388 204h140v28h-140zM556 204h28v28h-28zM668 204h28v28h-28zM724 204h112v28h-112zM892 204h28v28h-28zM1004 204h28v28h-28z" fill="url(#word)"/><path d="M248 92h28v3h-28zM332 92h28v3h-28zM388 92h28v3h-28zM584 92h84v3h-84zM752 92h112v3h-112zM892 92h28v3h-28zM1004 92h28v3h-28zM304 120h28v3h-28zM556 120h28v3h-28zM668 120h28v3h-28zM724 120h28v3h-28zM276 148h28v3h-28zM584 148h84v3h-84zM752 148h112v3h-112zM920 148h84v3h-84zM304 176h28v3h-28zM332 204h28v3h-28zM416 204h112v3h-112zM724 204h112v3h-112z" fill="#fff" opacity=".38"/>
+<path d="M248 92h28v28h-28zM332 92h28v28h-28zM388 92h28v28h-28zM584 92h84v28h-84zM752 92h112v28h-112zM892 92h28v28h-28zM1004 92h28v28h-28zM248 120h28v28h-28zM304 120h28v28h-28zM388 120h28v28h-28zM556 120h28v28h-28zM668 120h28v28h-28zM724 120h28v28h-28zM892 120h28v28h-28zM1004 120h28v28h-28zM248 148h56v28h-56zM388 148h28v28h-28zM556 148h140v28h-140zM724 148h140v28h-140zM892 148h140v28h-140zM248 176h28v28h-28zM304 176h28v28h-28zM388 176h28v28h-28zM556 176h28v28h-28zM668 176h28v28h-28zM836 176h28v28h-28zM892 176h28v28h-28zM1004 176h28v28h-28zM248 204h28v28h-28zM332 204h28v28h-28zM388 204h140v28h-140zM556 204h28v28h-28zM668 204h28v28h-28zM724 204h112v28h-112zM892 204h28v28h-28zM1004 204h28v28h-28z" fill="url(#word)"/><path d="M248 92h28v3h-28zM332 92h28v3h-28zM388 92h28v3h-28zM584 92h84v3h-84zM752 92h112v3h-112zM892 92h28v3h-28zM1004 92h28v3h-28zM304 120h28v3h-28zM556 120h28v3h-28zM668 120h28v3h-28zM724 120h28v3h-28zM276 148h28v3h-28zM584 148h84v3h-84zM752 148h112v3h-112zM920 148h84v3h-84zM304 176h28v3h-28zM332 204h28v3h-28zM416 204h112v3h-112zM724 204h112v3h-112z" fill="#fff" opacity=".38"/>
 </svg></div>
 <div class="wrap">
   <div class="tag">A <b>security-first</b> harness for coding agents, in your terminal.</div>

diff --git a/scripts/brand.py b/scripts/brand.py
@@ -143,16 +143,14 @@ def svg_open(w, h, label, extra=""):
 
 
 def sky_defs():
-    """Gradients for the sky and the nebula, and the blur for its filaments."""
+    """Gradients for the sky and the nebula's clouds."""
     return f"""
 <linearGradient id="sky" x1="0" y1="0" x2="0" y2="1"><stop offset="0" stop-color="{VOID}"/><stop offset=".62" stop-color="{NIGHT}"/><stop offset="1" stop-color="{MIST}"/></linearGradient>
-<radialGradient id="neb1"><stop offset="0" stop-color="{PURPLE}" stop-opacity=".40"/><stop offset="1" stop-color="{PURPLE}" stop-opacity="0"/></radialGradient>
-<radialGradient id="neb2"><stop offset="0" stop-color="{PINK}" stop-opacity=".26"/><stop offset="1" stop-color="{PINK}" stop-opacity="0"/></radialGradient>
-<radialGradient id="neb3"><stop offset="0" stop-color="{MAGENTA}" stop-opacity=".26"/><stop offset="1" stop-color="{MAGENTA}" stop-opacity="0"/></radialGradient>
-<radialGradient id="neb4"><stop offset="0" stop-color="{DEEP}" stop-opacity=".34"/><stop offset="1" stop-color="{DEEP}" stop-opacity="0"/></radialGradient>
-<linearGradient id="ray1" x1="0" y1="0" x2="0" y2="1"><stop offset="0" stop-color="{PURPLE}" stop-opacity="0"/><stop offset=".55" stop-color="{PURPLE}" stop-opacity=".9"/><stop offset="1" stop-color="{PURPLE}" stop-opacity="0"/></linearGradient>
-<linearGradient id="ray2" x1="0" y1="0" x2="0" y2="1"><stop offset="0" stop-color="{PINK}" stop-opacity="0"/><stop offset=".55" stop-color="{PINK}" stop-opacity=".9"/><stop offset="1" stop-color="{PINK}" stop-opacity="0"/></linearGradient>
-<filter id="hblur" x="-20%" y="-5%" width="140%" height="110%"><feGaussianBlur stdDeviation="5 0"/></filter>"""
+<radialGradient id="neb1"><stop offset="0" stop-color="{PURPLE}" stop-opacity=".20"/><stop offset="1" stop-color="{PURPLE}" stop-opacity="0"/></radialGradient>
+<radialGradient id="neb2"><stop offset="0" stop-color="{PINK}" stop-opacity=".13"/><stop offset="1" stop-color="{PINK}" stop-opacity="0"/></radialGradient>
+<radialGradient id="neb3"><stop offset="0" stop-color="{MAGENTA}" stop-opacity=".13"/><stop offset="1" stop-color="{MAGENTA}" stop-opacity="0"/></radialGradient>
+<radialGradient id="neb4"><stop offset="0" stop-color="{DEEP}" stop-opacity=".17"/><stop offset="1" stop-color="{DEEP}" stop-opacity="0"/></radialGradient>
+"""
 
 
 def make_stars(rng, n, w, ymax, keepout):
@@ -187,9 +185,9 @@ def sparkle(x, y, s, col, attrs=""):
     )
 
 
-def sky(rng, w, h, keepout, n_stars, twinkle, rays=True):
-    """Deep space, edge to edge: a nebula, its filaments and stars. There is
-    no planet or horizon under the word; it floats in space."""
+def sky(rng, w, h, keepout, n_stars, twinkle):
+    """Deep space, edge to edge: faint nebula clouds and crisp stars. There
+    is no planet or horizon under the word; it floats in space."""
     o = [f'<rect width="{w}" height="{h}" fill="url(#sky)"/>']
     o.append('<g class="aur">')
     o.append(f'<ellipse cx="{w * .26:.0f}" cy="{h * .30:.0f}" rx="{w * .40:.0f}" ry="{h * .32:.0f}" fill="url(#neb1)" transform="rotate(-12 {w * .26:.0f} {h * .30:.0f})"/>')
@@ -198,17 +196,6 @@ def sky(rng, w, h, keepout, n_stars, twinkle, rays=True):
     o.append(f'<ellipse cx="{w * .12:.0f}" cy="{h * .70:.0f}" rx="{w * .30:.0f}" ry="{h * .22:.0f}" fill="url(#neb4)"/>')
     o.append(f'<ellipse cx="{w * .90:.0f}" cy="{h * .66:.0f}" rx="{w * .26:.0f}" ry="{h * .20:.0f}" fill="url(#neb4)"/>')
     o.append("</g>")
-    if rays:
-        # Nebula filaments: thin streaks along a gentle wave, purple and pink.
-        r, n = [], 70
-        for i in range(n):
-            x = w * 0.03 + i * (w * 0.94) / n + rng.uniform(-6, 6)
-            base = h * 0.40 + h * 0.075 * math.sin(i / n * 2 * math.pi * 1.3 + 0.6)
-            hgt = rng.uniform(h * 0.17, h * 0.36)
-            op = rng.uniform(0.05, 0.15) * (1 - abs(i - n / 2) / (n * 0.86))
-            grad = "ray2" if rng.random() < 0.4 else "ray1"
-            r.append(f'<rect x="{x:.1f}" y="{base - hgt:.1f}" width="{rng.uniform(4, 11):.1f}" height="{hgt:.1f}" fill="url(#{grad})" opacity="{op:.3f}"/>')
-        o.append(f'<g filter="url(#hblur)">{"".join(r)}</g>')
     for x, y, rad, col, op in make_stars(rng, n_stars, w, h - 8, keepout):
         if rad > 1.5 and rng.random() < 0.6:
             attrs = f' class="tw" style="animation-delay:-{rng.uniform(0, 4):.2f}s"' if twinkle else ""
@@ -248,14 +235,11 @@ def word_defs(x0, y0, word_w, word_h, stops=NEBULA, gid="word"):
     )
 
 
-def word_layers(on, x0, y0, p, glow=True, bevel=True):
-    """Glow, face and a lit top edge for a pixel word. No drop shadow: the
-    word floats in space, with nothing behind it to cast one on."""
+def word_layers(on, x0, y0, p, bevel=True):
+    """Face and a lit top edge for a pixel word, with crisp edges: no glow
+    and no drop shadow. The word floats in space, with nothing behind it."""
     face = runs_path(on, x0, y0, p)
-    o = []
-    if glow:
-        o.append(f'<path d="{face}" fill="url(#word)" filter="url(#glow)" opacity=".6"/>')
-    o.append(f'<path d="{face}" fill="url(#word)"/>')
+    o = [f'<path d="{face}" fill="url(#word)"/>']
     if bevel:
         o.append(f'<path d="{runs_path(top_edges(on), x0, y0, p, h=min(3, max(1.5, p / 8)))}" fill="#fff" opacity=".38"/>')
     return face, "".join(o)
@@ -311,7 +295,6 @@ def banner(W=1280, H=520, p=24):
     o.append(word_defs(x0, y0, word_w, word_h))
     o.append(field_gradient("field", 0, W))
     o.append('<linearGradient id="shineg" x1="0" y1="0" x2="1" y2="0"><stop offset="0" stop-color="#fff" stop-opacity="0"/><stop offset=".5" stop-color="#fff" stop-opacity=".8"/><stop offset="1" stop-color="#fff" stop-opacity="0"/></linearGradient>')
-    o.append('<filter id="glow" x="-20%" y="-60%" width="140%" height="220%"><feGaussianBlur stdDeviation="14"/></filter>')
     o.append(f'<clipPath id="frame"><rect width="{W}" height="{H}" rx="22"/></clipPath>')
     o.append(f'<clipPath id="wordclip"><path d="{face}"/></clipPath>')
     o.append("</defs>")
@@ -363,11 +346,10 @@ def signoff(W=1280, H=260, p=10):
     o.append(sky_defs())
     o.append(word_defs(x0, y0, word_w, word_h))
     o.append(f'<linearGradient id="field" gradientUnits="userSpaceOnUse" x1="{x0}" y1="0" x2="{x0 + word_w}" y2="0"><stop offset="0" stop-color="{PINK}" stop-opacity=".75"/><stop offset="1" stop-color="{PURPLE}" stop-opacity=".75"/></linearGradient>')
-    o.append('<filter id="glow" x="-20%" y="-60%" width="140%" height="220%"><feGaussianBlur stdDeviation="8"/></filter>')
     o.append(f'<clipPath id="frame"><rect width="{W}" height="{H}" rx="22"/></clipPath>')
     o.append("</defs>")
     o.append('<g clip-path="url(#frame)">')
-    o.append(sky(rng, W, H, keep, 90, twinkle=True, rays=False))
+    o.append(sky(rng, W, H, keep, 90, twinkle=True))
     o.append(f'<path d="{fields}" stroke="url(#field)" stroke-width="1.4" fill="none"/>')
     o.append(f'<text x="{x0}" y="{fmt(meta_y + ch * 0.72)}" font-family="{MONO}" font-size="13" fill="{GOLD}">klash.pro</text>')
     o.append(word_layers(on, x0, y0, p)[1])
@@ -391,7 +373,6 @@ def avatar(S=512, p=60):
     o.append("<defs>")
     o.append(sky_defs())
     o.append(word_defs(x0, y0, word_w, word_h))
-    o.append('<filter id="glow" x="-30%" y="-30%" width="160%" height="160%"><feGaussianBlur stdDeviation="22"/></filter>')
     o.append("</defs>")
     o.append(sky(rng, S, S, keep, 75, twinkle=False))
     o.append(word_layers(on, x0, y0, p)[1])
@@ -460,7 +441,6 @@ def og_svg(W=1280, H=640, p=28):
     o.append(sky_defs())
     o.append(word_defs(x0, y0, word_w, word_h))
     o.append(field_gradient("field", 0, W))
-    o.append('<filter id="glow" x="-20%" y="-60%" width="140%" height="220%"><feGaussianBlur stdDeviation="16"/></filter>')
     o.append("</defs>")
     o.append(sky(rng, W, H, keep, 145, twinkle=False))
     o.append(f'<path d="{left}{right}" stroke="url(#field)" stroke-width="2.2" fill="none"/>')
